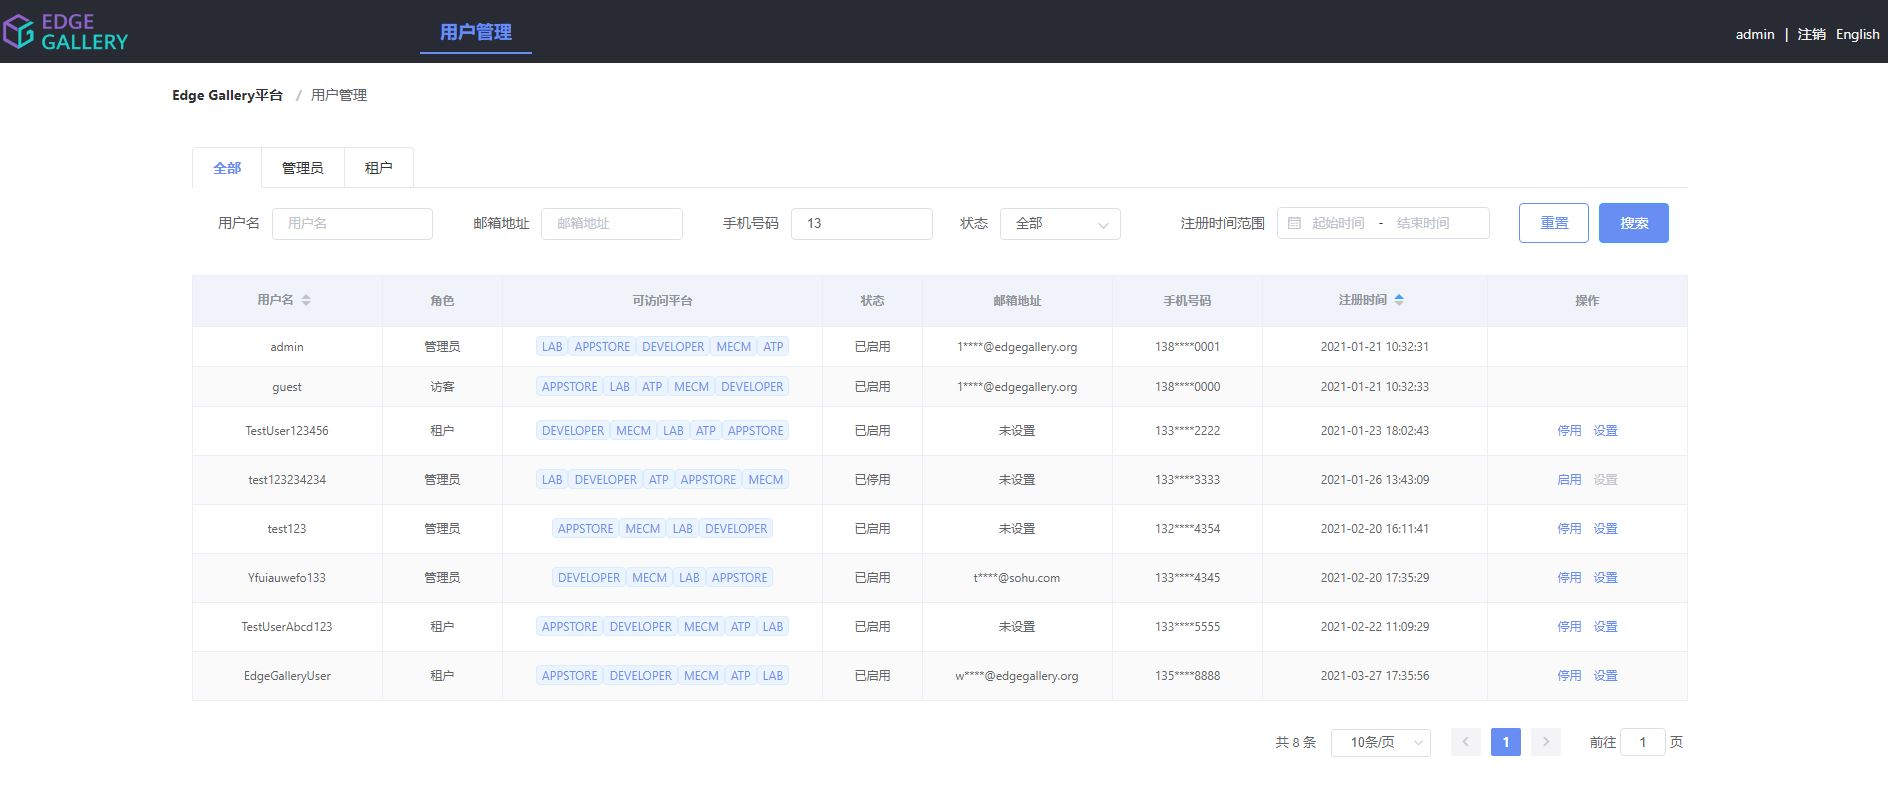
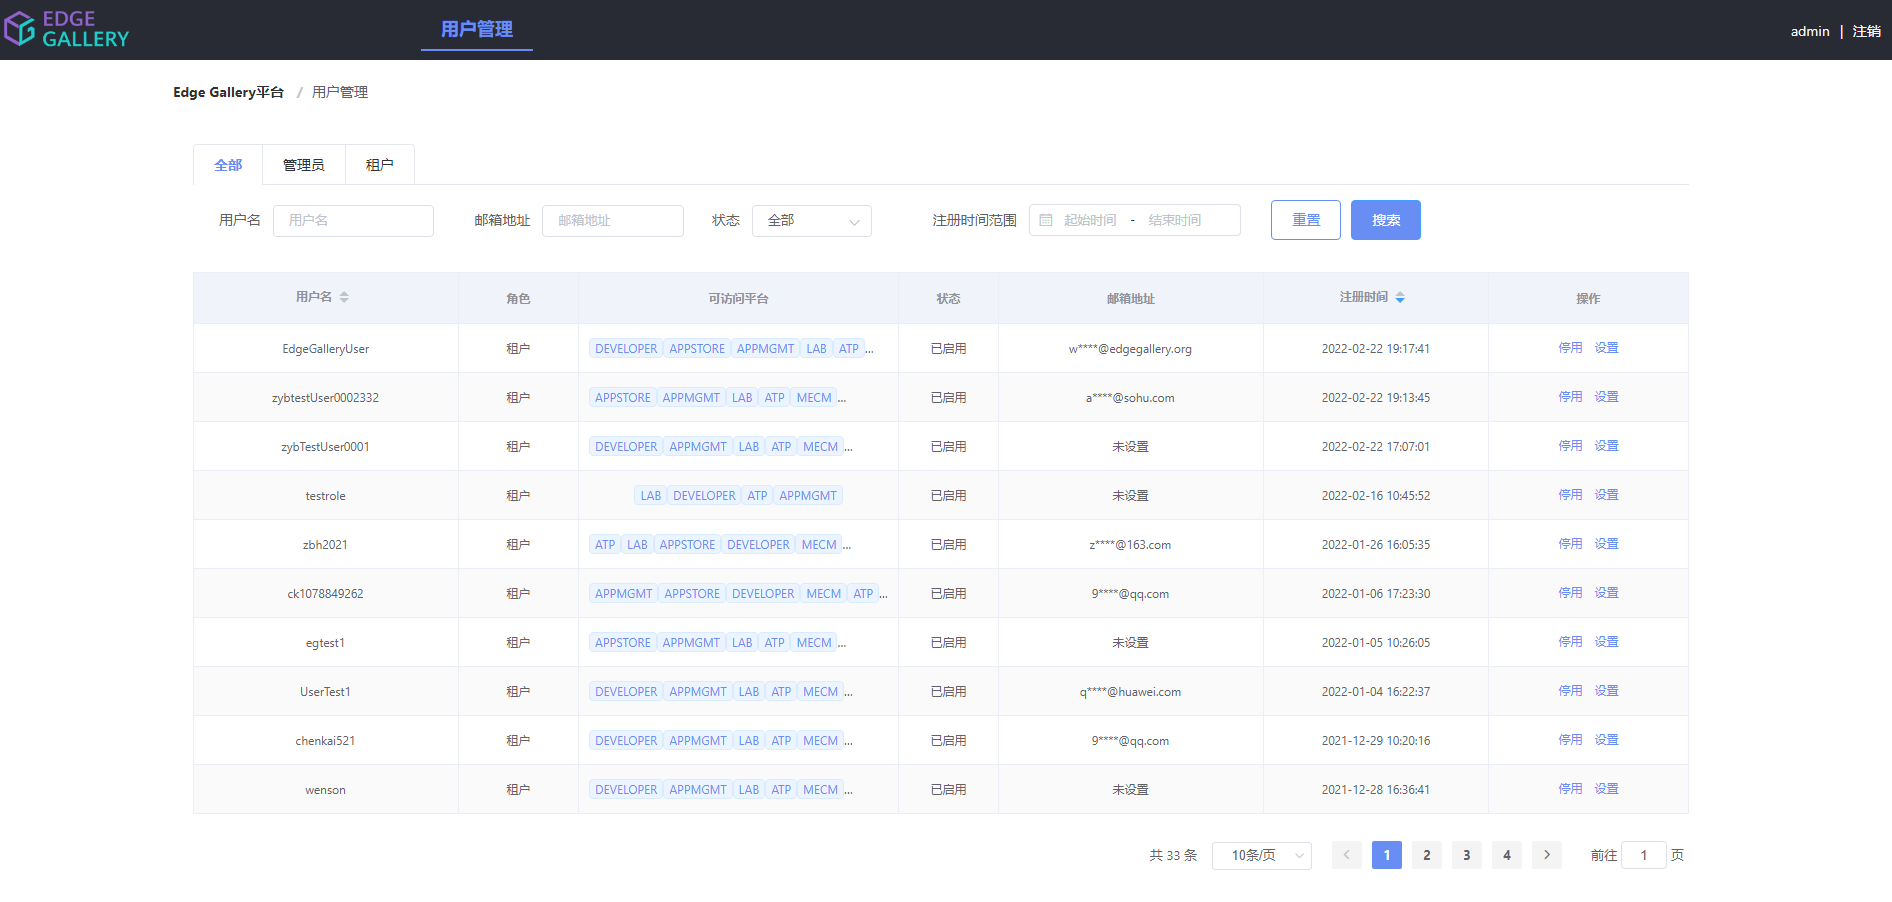
用户管理模块文档刷新

diff --git a/Projects/User Management/User_Features.md b/Projects/User Management/User_Features.md
@@ -7,35 +7,32 @@
 - [访客登录](#访客登录)
 - [用户列表管理](#用户列表管理)
 - [邮箱验证](#邮箱验证)
-- [手机验证](#手机验证)
 
 **Feature Info**
 | **特性名称** | **特性描述** | **设计约束** |
 | --- | --- | --- |
-| [用户注册](#用户注册) | 提供用户注册功能。注册时除提供必须的用户名外，还可以选择提供邮箱地址、手机号码。建议二者至少填写一项真实信息，便于忘记密码后找回密码时进行验证。 | 注册时提供的用户名、邮箱地址、手机号码必须是唯一的，如果已存在，则无法成功注册。目前只支持中国大陆手机号注册。为了方便用户注册，当前不对邮箱地址和手机号码进行验证。|
-| [单点登录](#单点登录) | 可以通过用户名、手机号码或邮箱地址登录各应用平台Portal。EdgeGallery采取单点登录方式（Single Sign On），即多个应用平台共用一个登录认证平台，一次登录就可以访问互相信任的其他应用系统。 | 目前单点登录系统适用于开发者平台（Developer Portal）、应用仓库（Application Store）、管理系统（MEC Manager）、应用测试认证平台（ATP Portal）、社区实验室管理平台（Lab Portal）。 |
-| [用户中心](#用户中心) | 用户登录到各应用平台后，可以通过“我的帐号”进入用户中心。在用户中心可以查看/修改个人信息、修改密码。 | 目前不支持修改用户名，只能修改手机号码和邮箱地址。 |
-| [密码找回](#密码找回) | 如果用户注册时提供了真实有效的手机号码或邮箱地址（或者在用户中心修改个人信息时提供），当忘记密码时可以通过手机号码或邮箱地址重置密码以完成密码找回。通过手机号码找回密码时需要进行手机验证，通过邮箱地址找回密码时需要进行邮箱验证，验证通过后才可以重置密码。 | 只有当EdgeGallery平台开启了短信服务才可以通过手机号码找回密码；只有当EdgeGallery平台开启了邮箱服务才可以通过邮箱地址找回密码 |
+| [用户注册](#用户注册) | 提供用户注册功能。注册时除提供必须的用户名外，还可以选择提供邮箱地址。建议填写邮箱地址，便于忘记密码后找回密码时进行验证。 | 注册时提供的用户名、邮箱地址必须是唯一的，如果已存在，则无法成功注册。为了方便用户注册，当前不对邮箱地址进行验证。|
+| [单点登录](#单点登录) | 可以通过用户名、邮箱地址登录各应用平台Portal。EdgeGallery采取单点登录方式（Single Sign On），即多个应用平台共用一个登录认证平台，一次登录就可以访问互相信任的其他应用系统。 | 目前单点登录系统适用于开发者平台（Developer Portal）、应用仓库（Application Store）、管理系统（MEC Manager）、应用测试认证平台（ATP Portal）。 |
+| [用户中心](#用户中心) | 用户登录到各应用平台后，可以通过“我的帐号”进入用户中心。在用户中心可以查看/修改个人信息、修改密码。 | 目前不支持修改用户名，只能修改邮箱地址。 |
+| [密码找回](#密码找回) | 如果用户注册时提供了真实有效的邮箱地址（或者在用户中心修改个人信息时提供），当忘记密码时可以通过邮箱地址重置密码以完成密码找回。通过邮箱地址找回密码时需要进行邮箱验证，验证通过后才可以重置密码。 | 只有当EdgeGallery平台开启了邮箱服务才可以通过邮箱地址找回密码 |
 | [访客登录](#访客登录) | 访客是系统内置的一个GUEST账号，访问首页时自动登录。在访客登录时，用户可以查看系统的大部分功能，但是不能在系统中进行创建/删除/修改登录操作。 | 访客的默认用户名和密码是guest/guest，部署时如需修改密码请通过登录数据库修改，如果想停用GUEST账号，请从数据库中直接删除。 |
 | [用户列表管理](#用户列表管理) | 用户管理模块默认内置admin用户，该用户作为系统的超级管理员。为该用户提供一个统一的用户列表管理功能，可以查询用户、启用/停用用户、设置用户角色权限。 | 当停用用户后，用户将无法登录；无法设置已停用用户的角色权限。 |
 | [邮箱验证](#邮箱验证) | 系统提供向已注册邮箱地址发送验证码的服务，用来对邮箱进行验证。| 只有当EdgeGallery平台开启了邮箱服务才可以向邮箱发送验证码 |
-| [手机验证](#手机验证) | 系统提供向已注册手机号码发送验证码的服务，用来对手机进行验证。| 只有当EdgeGallery平台开启了短信服务才可以向手机发送验证码 |
 
 ### 用户注册
 
-用户注册时，除提供必须的用户名外，还可以选择提供手机号码、邮箱地址。建议手机号码和邮箱地址二者至少填写一项真实信息，便于忘记密码后找回密码时进行验证。
+用户注册时，除提供必须的用户名外，还可以选择提供邮箱地址。建议填写邮箱地址，便于忘记密码后找回密码时进行验证。
 
 注册时系统会进行以下校验：
 1. 用户名必须大于6位，同时会校验用户名是否已经被注册。
 2. 如果提供了邮箱地址，校验其是否符合格式要求的邮箱地址，同时会校验邮箱地址是否已经被注册。
-3. 如果提供了手机号码，校验其是否符合格式要求的中国大陆手机号码，同时会校验手机号码是否已经被注册。
-4. 图形数字验证码
+3. 图形数字验证码
     
 ![用户注册处理时序图](/uploads/images/2021/usermgmt/Sequence_Register.png "Sequence_Register.png")
 
 ### 单点登录
 
-单点登录系统是基于ServiceComb、Spring Security、Oauth2、JWT、Vue等技术实现，采用OAuth2协议的授权码模式（authorization code）。MECM、AppStore、Developer、Atp、Lab应用平台作为客户端，与认证服务器user-mgmt-be进行交互，实现单点登陆与单点注销功能。使用Cookie+Session机制实现用户认证鉴权和超时退出功能，使用JWT存储用户基本信息，减轻认证服务器压力。
+单点登录系统是基于ServiceComb、Spring Security、Oauth2、JWT、Vue等技术实现，采用OAuth2协议的授权码模式（authorization code）。MECM、AppStore、Developer、Atp应用平台作为客户端，与认证服务器user-mgmt-be进行交互，实现单点登陆与单点注销功能。使用Cookie+Session机制实现用户认证鉴权和超时退出功能，使用JWT存储用户基本信息，减轻认证服务器压力。
 
 这里以MECM和AppStore两个应用平台作为客户端为例来说明单点登录和单点注销的处理时序。
 
@@ -49,7 +46,7 @@
 
 在用户中心，用户可以查看/修改个人信息、修改密码。
 
-目前不支持修改用户名，只能修改手机号码和邮箱地址。
+目前不支持修改用户名，只能修改邮箱地址。
 
 
 ### 密码找回
@@ -62,15 +59,6 @@
 2.  用户输入收到的验证码和新密码，修改成功后，返回登录界面。
 
 ![根据邮箱地址找回密码处理时序图](/uploads/images/2021/usermgmt/Sequence_RetrievePwByMail.png "Sequence_RetrievePwByMail.png")
-
-#### 通过手机号码找回密码
-
-用户忘记密码后通过手机号码找回密码的主要交互处理：
-
-1.  用户输入手机号码，完成图形数字验证，然后请求获取验证码。系统判断手机号码是否已注册，如果已注册，则通过手机短信发送验证码。如果没有注册，提示用户手机号码不存在。
-2.  用户输入收到的验证码和新密码，修改成功后，返回登录界面。
-
-![根据手机号码找回密码处理时序图](/uploads/images/2021/usermgmt/Sequence_RetrievePwByPhone.png "Sequence_RetrievePwByPhone.png")
 
 ### 访客登录
 
@@ -108,18 +96,6 @@
 [spring.mail.password=]  //发件人授权码
 
 
-### 手机验证
-
-对手机号码进行验证时需要通过短信发送验证码到手机，需要开启短信服务。
-
-短信业务使用华为云消息&短信服务，详细信息请点击[这里](https://www.huaweicloud.com/product/msgsms.html)。
-
-```
-Description:
-If you have not purchased the SMS service, the mobile phone verification function can be blocked by configuration. The specific steps are as follows:
-Configuration file application.properties under user-mgmt, set sms.enabled=false
-```
-
 ### 界面设计
 
 - [用户注册界面](#用户注册界面)
@@ -138,23 +114,10 @@ Configuration file application.properties under user-mgmt, set sms.enabled=false
 
 #### 忘记密码后找回密码界面
 
-（1）当只开启了邮箱服务时，只能通过邮箱找回
-
 ![](/uploads/images/2021/usermgmt/UI_RetrievePwByMail-1.png "UI_RetrievePwByMail-1.png")
 
 ![](/uploads/images/2021/usermgmt/UI_RetrievePwByMail-2.png "UI_RetrievePwByMail-2.png")
 
-（2）当只开启了短信服务时，只能通过手机找回
-
-![](/uploads/images/2021/usermgmt/UI_RetrievePwByPhone-1.png "UI_RetrievePwByPhone-1.png")
-
-![](/uploads/images/2021/usermgmt/UI_RetrievePwByPhone-2.png "UI_RetrievePwByPhone-2.png")
-
-（3）当邮箱服务和短信服务同时开启时，可以二选一
-
-![](/uploads/images/2021/usermgmt/UI_RetrievePwByPhoneOrMail.png "UI_RetrievePwByPhoneOrMail.png")
-
-点击“下一步”后的界面，与前面的界面一样。
 
 #### 用户中心界面
 

diff --git a/Projects/User Management/User_Overview.md b/Projects/User Management/User_Overview.md
@@ -3,7 +3,7 @@ User Overview
 
 ## 简介
 
-User Management模块是为EdgeGallery项目提供用户管理的基本能力，包括用户注册/登录/权限认证等功能。为AppStore/开发者平台/MECM/ATP/Lab提供统一的用户鉴权和认证服务。
+User Management模块是为EdgeGallery项目提供用户管理的基本能力，包括用户注册/登录/权限认证等功能。为AppStore/开发者平台/MECM/ATP提供统一的用户鉴权和认证服务。
 
 ## 部署关系
 
@@ -13,7 +13,6 @@ User-mgmt模块主要包含四个模块：
 - Portal：提供登录/登出的界面操作
 - Auth-server：提供JWT服务，用于API接口访问的token生成
 - User-mgmt：提供用户帐号管理，包括获取/修改用户信息、密码找回等功能
-- SMS：提供短信服务
 - Mail: 提供邮箱服务
 
 
@@ -22,9 +21,8 @@ User-mgmt模块主要包含四个模块：
 
 User-mgmt是EdgeGallery的用户管理模块：
 - 用户首先通过User Management登录到EdgeGallery平台
-- User Management会给登录成功的用户签发AccessToken，用于后台API接口的访问，token默认超时时间1小时，token携带以下数据：
+- User Management会给登录成功的用户签发AccessToken，用于后台API接口的访问，token默认超时时间12小时，token携带以下数据：
     - userId: 登录用户ID
-    - enableSms：是否开启短信服务
     - enableMail：是否开启邮箱服务
     - ssoSessionId：全局SessionId，用户单点登录
     - userName：用户名
